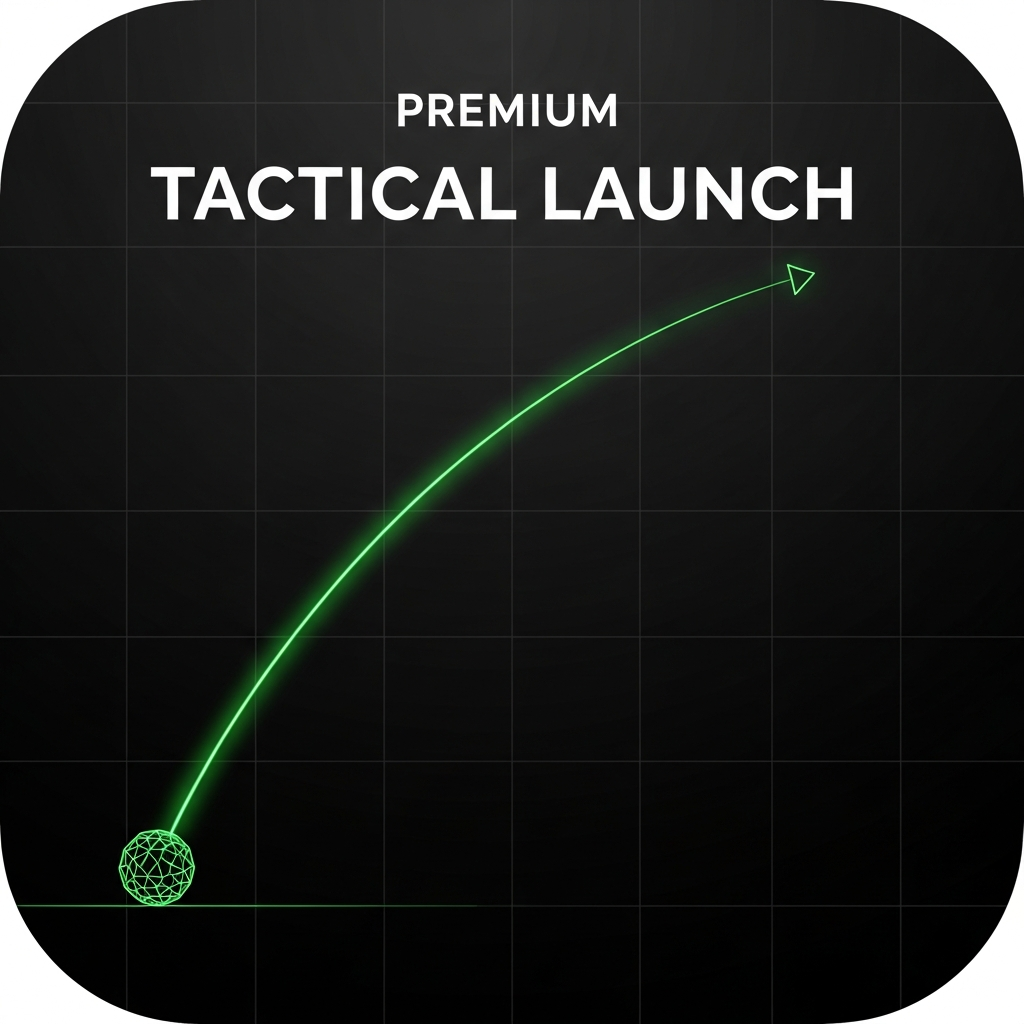
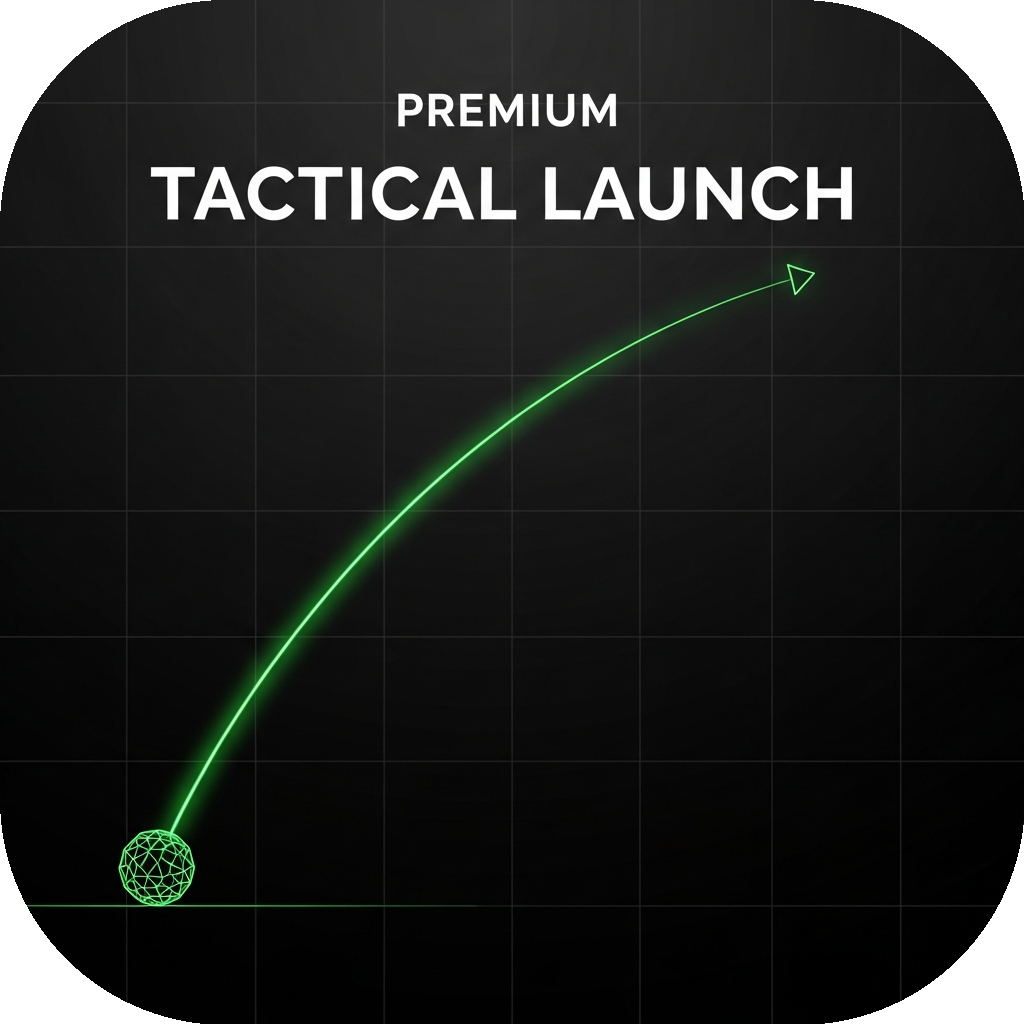
Edit TL.png to remove white corners with transparent alpha mask

diff --git a/index.html b/index.html
@@ -742,7 +742,7 @@
 
         <div class="game-card card-tact">
             <div class="card-thumb">
-                <img src="TL.png" alt="Tactical Launch" style="border-radius: 22%; padding: 10px; object-fit: contain;">
+                <img src="TL.png" alt="Tactical Launch" style="object-fit: contain; padding: 8px;">
                 <span class="provider-badge badge-tact">Tact's Games</span>
             </div>
             <div class="card-body">
